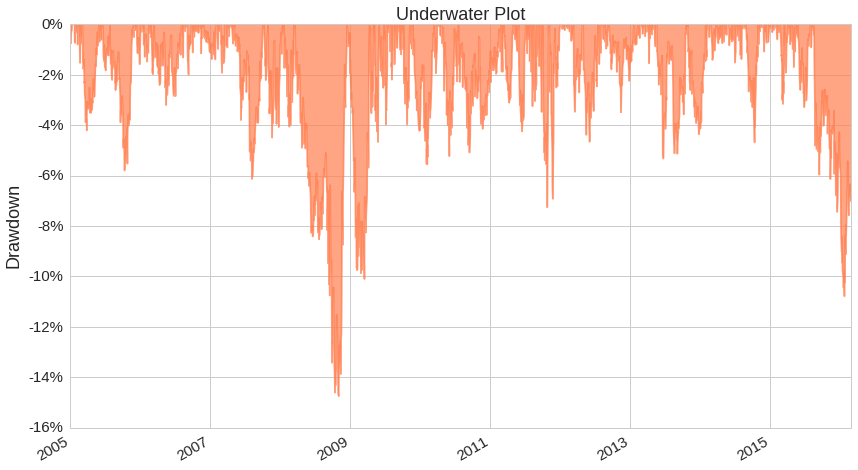
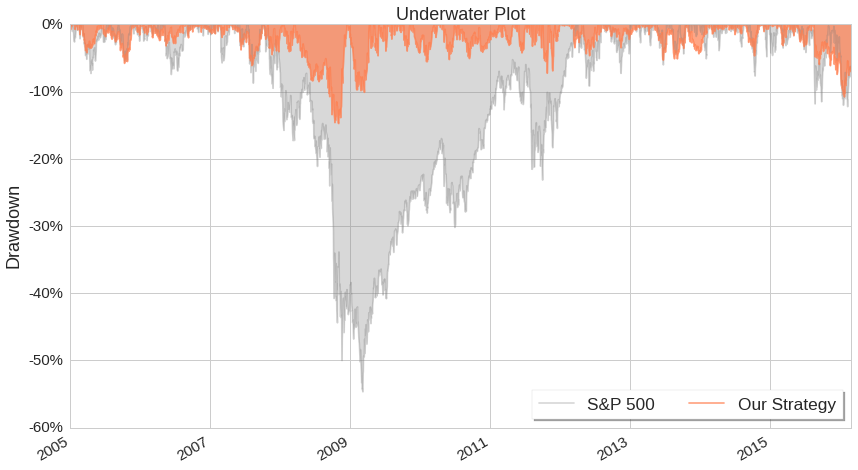
Website finished?

diff --git a/app/templates/strategy/about_the_strategy.html b/app/templates/strategy/about_the_strategy.html
@@ -15,7 +15,7 @@
       <ul>
         <li>The strategy trades between 9 sector etfs and 2 bond etfs.</li>
         <li>Annual return of 11%.</li>
-        <li>Max drawdown of only 13%.</li>
+        <li>Max drawdown of only 14%.</li>
         <li>Is always invested in bonds, so your funds will be safe even if the market has a serious downturn.</li>
         <li>Trades monthly, so following the strategy is very simple.</li>
       </ul>
@@ -28,7 +28,7 @@
     <img src="/static/img/strategy_performance.png" alt="strategy performance">
     <p class="details">
       The graph above shows the performance of our strategy compared to the just holding S&P 500 (the S&P 500 is the top 
-      500 companies currently on the US market). We can see that our strategy not only performs better but also has better
+      500 companies currently on the US market). We can see that our strategy not only out performs the S&P 500 but also has better
       downside protection.
     </p>
     <div class="statistics">
@@ -77,5 +77,214 @@
 		  but most importantly, the strategy has done very well managing portfolio drawdowns (losses).
 		</p>
     <img src="/static/img/drawdown_plot.png" alt="drawdown plot">
+		<p class="details">
+			A “drawdown curve” shows the percentage a portfolio was down at any given point relative to 
+			the portfolio’s previous peak value. A reading of -10% would indicate the portfolio was down
+			10% from its previous peak. A reading of 0% would indicate the portfolio hit an all time high
+			on that day. <br/><br/>
+			Note how the strategy significantly protects the portfolio from even the most severe market downturns.
+		</p>
+		<div class="monthly returns">
+			<h3>Monthly and Annual Returns</h3>
+			<table>
+				<tr>
+					<th></th>
+					<th>Jan</th>
+					<th>Feb</th>		
+					<th>Mar</th>
+					<th>Apr</th>		
+					<th>May</th>
+					<th>Jun</th>
+					<th>Jul</th>		
+					<th>Aug</th>
+					<th>Sep</th>
+					<th>Oct</th>
+					<th>Nov</th>
+					<th>Dec</th>
+					<th>Total</th>
+				</tr>
+				<tr>
+					<th>2005</th>
+					<td>2.3%</td>
+					<td>1.0%</td>		
+					<td>-1.5%</td>		
+					<td>0.0%</td>		
+					<td>3.3%</td>		
+					<td>-0.2%</td>		
+					<td>0.5%</td>
+					<td>-0.9%</td>
+					<td>-1.2%</td>
+					<td>-0.8%</td>
+					<td>3.2%</td>
+					<td>1.0%</td>
+					<td>6.7%</td>
+				</tr>
+				<tr>
+					<th>2006</th>
+					<td>3.0%</td>
+					<td>0.6%</td>
+					<td>-0.8%</td>
+					<td>0.9%</td>
+					<td>-1.5%</td>
+					<td>0.5%</td>
+					<td>1.4%</td>
+					<td>2.0%</td>
+					<td>1.0%</td>
+					<td>2.9%</td>
+					<td>3.8%</td>
+					<td>-1.1%</td>
+					<td>13.3%</td>
+				</tr>
+				<tr>
+					<th>2007</th>
+					<td>0.9%</td>
+					<td>0.9%</td>
+					<td>0.9%</td>
+					<td>3.1%</td>
+					<td>0.1%</td>
+					<td>-0.8%</td>
+					<td>-3.8%</td>
+					<td>2.0%</td>
+					<td>2.0%</td>
+					<td>1.8%</td>
+					<td>-0.7%</td>
+					<td>-1.3%</td>
+					<td>5.5%</td>
+				</tr>
+				<tr>
+					<th>2008</th>
+					<td>2.9%</td>
+					<td>0.0%</td>
+					<td>1.4%</td>
+					<td>-2.8%</td>
+					<td>-2.1%</td>
+					<td>-1.0%</td>
+					<td>-0.3%</td>
+					<td>1.8%</td>
+					<td>-7.5%</td>
+					<td>-2.4%</td>
+					<td>10.6%</td>
+					<td>8.5%</td>
+					<td>8.1%</td>
+				</tr>
+				<tr>
+					<th>2009</th>
+					<td>-6.6%</td>
+					<td>-1.6%</td>
+					<td>3.7%</td>
+					<td>4.6%</td>
+					<td>4.5%</td>
+					<td>0.9%</td>
+					<td>6.1%</td>
+					<td>2.8%</td>
+					<td>3.1%</td>
+					<td>-1.6%</td>
+					<td>5.1%</td>
+					<td>-3.7%</td>
+					<td>17.7%</td>
+				</tr>
+				<tr>
+					<th>2010</th>
+					<td>-0.4%</td>
+					<td>1.4%</td>
+					<td>3.7%</td>
+					<td>3.2%</td>
+					<td>-3.2%</td>
+					<td>3.3%</td>
+					<td>0.0%</td>
+					<td>-1.3%</td>
+					<td>-0.2%</td>
+					<td>-0.3%</td>
+					<td>-0.9%</td>
+					<td>1.8%</td>
+					<td>6.9%</td>
+				</tr>
+				<tr>
+					<th>2011</th>
+					<td>0.0%</td>
+					<td>2.1%</td>
+					<td>0.4%</td>
+					<td>1.6%</td>
+					<td>1.0%</td>
+					<td>-1.3%</td>
+					<td>2.3%</td>
+					<td>8.0%</td>
+					<td>7.7%</td>
+					<td>-2.5%</td>
+					<td>4.4%</td>
+					<td>1.3%</td>
+					<td>27.3%</td>
+				</tr>
+				<tr>
+					<th>2012</th>
+					<td>4.2%</td>
+					<td>1.7%</td>
+					<td>-1.3%</td>
+					<td>1.7%</td>
+					<td>-2.5%</td>
+					<td>1.4%</td>
+					<td>1.8%</td>
+					<td>2.0%</td>
+					<td>0.9%</td>
+					<td>0.7%</td>
+					<td>0.2%</td>
+					<td>-1.2%</td>
+					<td>10.0%</td>
+				</tr>
+				<tr>
+					<th>2013</th>
+					<td>1.3%</td>
+					<td>1.3%</td>
+					<td>1.2%</td>
+					<td>2.9%</td>
+					<td>-0.1%</td>
+					<td>-1.5%</td>
+					<td>2.6%</td>
+					<td>-2.8%</td>
+					<td>1.6%</td>
+					<td>2.6%</td>
+					<td>-1.8%</td>
+					<td>-1.3%</td>
+					<td>5.9%</td>
+				</tr>
+				<tr>
+					<th>2014</th>
+					<td>4.3%</td>
+					<td>3.8%</td>
+					<td>0.2%</td>
+					<td>0.2%</td>
+					<td>2.3%</td>
+					<td>0.7%</td>
+					<td>0.4%</td>
+					<td>4.2%</td>
+					<td>-2.7%</td>
+					<td>2.8%</td>
+					<td>2.8%</td>
+					<td>0.8%</td>
+					<td>21.5%</td>
+				</tr>
+				<tr>
+					<th>2015</th>
+					<td>4.1%</td>
+					<td>2.3%</td>
+					<td>-0.0%</td>
+					<td>0.9%</td>
+					<td>0.8%</td>
+					<td>-2.7%</td>
+					<td>3.6%</td>
+					<td>-2.6%</td>
+					<td>0.7%</td>
+					<td>-0.7%</td>
+					<td>-0.4%</td>
+					<td>-0.9%</td>
+					<td>4.8%</td>
+				</tr>
+				<tr>
+					<th>2016</th>
+					<td>-3.4%</td>
+					<td>1.7%</td>		
+				</tr>
+			</table>
+		</div>
   </div>
 {% endblock %}

diff --git a/app/static/css/_about_the_strategy.scss b/app/static/css/_about_the_strategy.scss
@@ -60,4 +60,28 @@
 
   }
 
+	.monthly.returns {
+		width: 982px;
+		h3 {
+			margin-top: 30px;
+			text-align: center;
+			line-height: 40px;
+			font-family: $open-sans;
+			font-weight: $open-sans-bold;
+		}
+		td, th {
+			width: 4rem;
+			height: 2rem;
+			border: 1px solid #ccc;
+			text-align: center;
+		}
+		th {
+			background: #eee;
+			border-color: white;
+		}
+		body {
+			padding: 1rem;
+		}
+	}
+
 }
